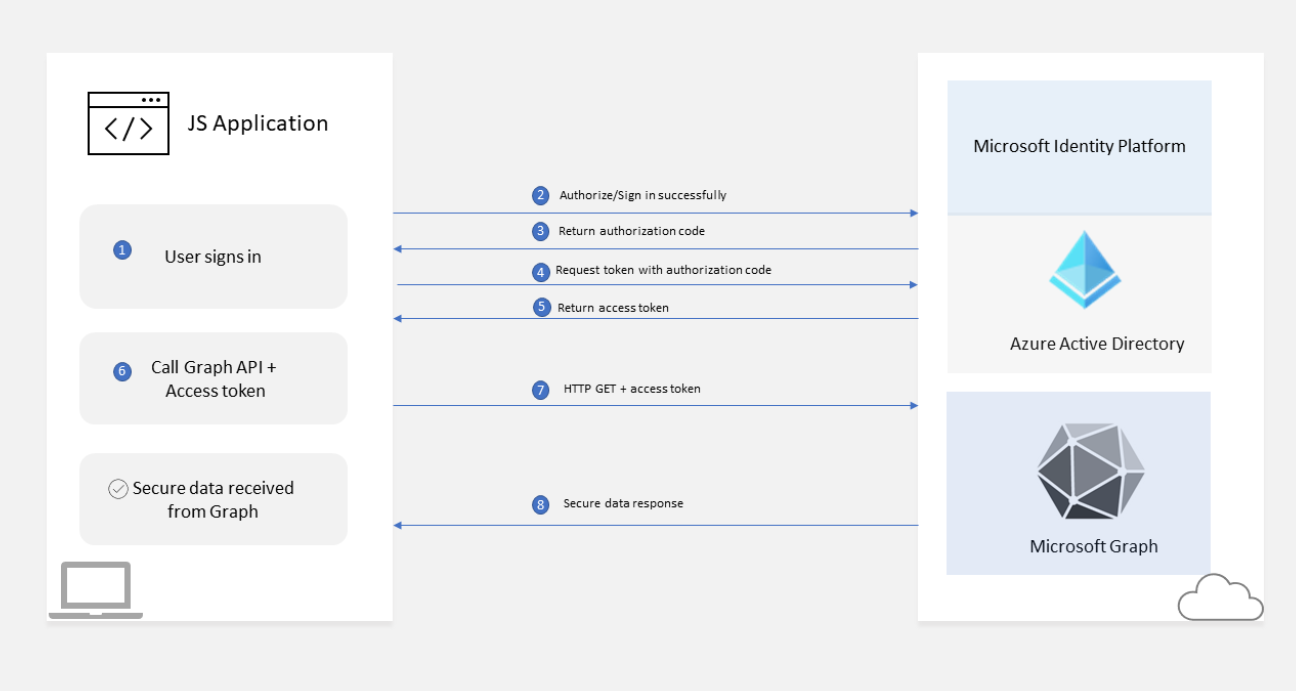
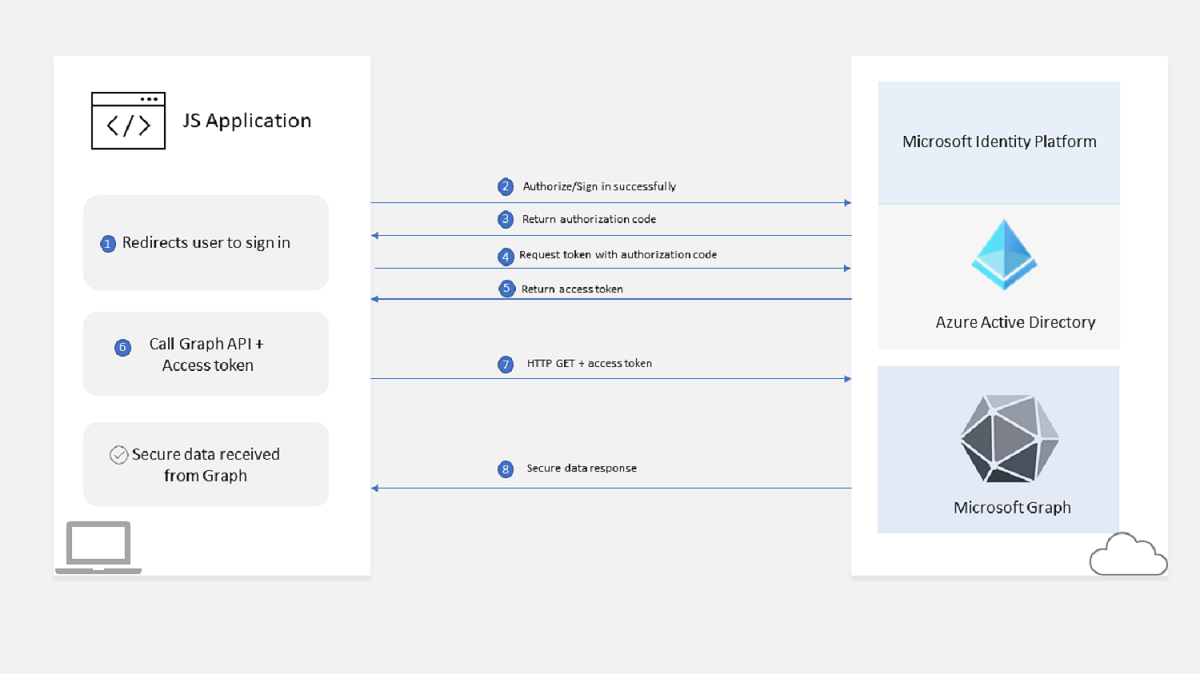
Feedback from m365

diff --git a/learn-m365-pr/m365-developer/msgraph-javascript-app/includes/3-understand-permissions.md b/learn-m365-pr/m365-developer/msgraph-javascript-app/includes/3-understand-permissions.md
@@ -1,6 +1,6 @@
 For you to develop the customer application, which retrieves Microsoft 365 data, you need to have some understanding of how permissions and consents work in Microsoft Graph. You clearly want to make the right choices when it comes to what data your application can and cannot access.  
 
-Suppose you want to show a signed in salesperson’s upcoming meetings, you would want your application to only have access to this data. You wouldn't want your application to unnecessarily be granted access to the user’s mails.  
+Suppose you want to show a signed in salesperson’s upcoming meetings, you would want your application to have the right permission to access their calendar data from Microsoft 365.  
 
 **Permissions** provide a way for your application to interact with the Microsoft Graph API to access Microsoft 365 data. A user or an administrator can grant specific permissions to an application. The process of granting access to different Graph API resources is called **Consent**.
 
@@ -12,13 +12,13 @@ In a nutshell, there are three main concepts to understand when your application
 
 ## Microsoft Graph permissions or scopes
 
-A Microsoft Graph *permissions* or *scopes* controls the access your app has to specific resources such as users, mail, files, and more. An example of the pattern used to define a permission or a scope for a Microsoft Graph resource is shown next:
+Microsoft Graph *permissions* or *scopes* control the access your app has to specific resources such as users, mail, files, and the operations which can be performed on them. An example of the pattern used to define a permission for a Microsoft Graph operation for a particular resource is as shown below:
 
 **Resource-name.operation.constraint**
 
 For example, *User.Read.All* grants an application the permission to read the profile of all users in a directory.  
 
-Similarly, to read the profile of a signed in user, the permission or the scope required is *User.Read*.
+Similarly, to read the profile of a signed in user, the permission required is *User.Read*.
 
 ## Permission types
 
@@ -30,7 +30,7 @@ There are two types of permissions in Microsoft Graph:
 
 **Delegated Permission** is used when your application is making a Graph call on behalf of the user. Some permission scopes such as *User.Read* can be consented by the user whereas some high-privileged ones such as Channel.Delete.All (which deletes channels in any team on behalf of the signed-in user), requires consent from an administrator.
 
-The simplest example of a delegated permission scope is *User.Read* used in  `/me` API end point.  In Microsoft Graph, all API calls with `/me` use the currently signed in user’s context.
+The simplest example of a delegated permission scope is *User.Read*, which is required to call the `/me` endpoint. In Microsoft Graph, all API calls with `/me` use the currently signed in user’s context.
 
 **Application Permissions** on the other hand do not require a signed-in user in the application. The permissions are pre-consented to by an administrator. An example of an application permission scope is *Calendars.ReadWrite*, which allows the app to create, read, update, and delete events of all calendars without a signed-in user. You cannot use `/me` API for an application permission scope as there is no signed-in user to pull out that information.
 
@@ -43,8 +43,7 @@ Your application must get an **Access token** from the **Microsoft Identity plat
 Once your application receives an **Access token**, it will pass it as a Bearer token in the **Authorization** Header of an HTTP request to retrieve data securely from the service. Here’s an example of what an Authorization Header might look like for a given Microsoft Graph request:  
 
 ```http
-HTTP 
- 
+
 GET https://graph.microsoft.com/v1.0/me/ HTTP/1.1  
 Host: graph.microsoft.com  
 Authorization: Bearer EwAoA8l6BAAU ... 7PqHGsykYj7A0XqHCjbKKgWSkcAg==

diff --git a/learn-m365-pr/m365-developer/msgraph-javascript-app/includes/6-retrieve-access-token.md b/learn-m365-pr/m365-developer/msgraph-javascript-app/includes/6-retrieve-access-token.md
@@ -1,4 +1,4 @@
-At this point, you have a basic understanding of what an **Access Token** is, and you've seen how to register your application with the Microsoft Identity platform using the Azure AD application registration. Now let’s learn how to retrieve an access token so it can be used by your team to build the customer application. 
+At this point, you have a basic understanding of what an **Access token** is, and you've seen how to register your application with the Microsoft Identity platform using the Azure AD application registration. Now let’s learn how to retrieve an access token so it can be used by your team to build the customer application. 
 
 Token interaction can be challenging if you don’t use a library to abstract away the protocol details, validation, token caching, and security. Fortunately, you can use a library called **Microsoft Authentication Library 2.0 (MSAL)** to simplify this process.  
 
@@ -6,9 +6,9 @@ The Microsoft Authentication Library (MSAL) enables developers to acquire to
 
 ## Authentication flow
 
-The authentication flow for an application that uses MSAL is as follows:
+One of the authentication flow for the application that uses MSAL, which we'll use in our exercise is as follows:
 
-1. The application pops up a browser dialog for the user to sign in.
+1. The application redirects the user to sign in.
 1. The user signs in successfully, requesting an authorization code.
 1. The authorization code is returned to the application.
 1. The application then requests the tokens using the authorization code.
